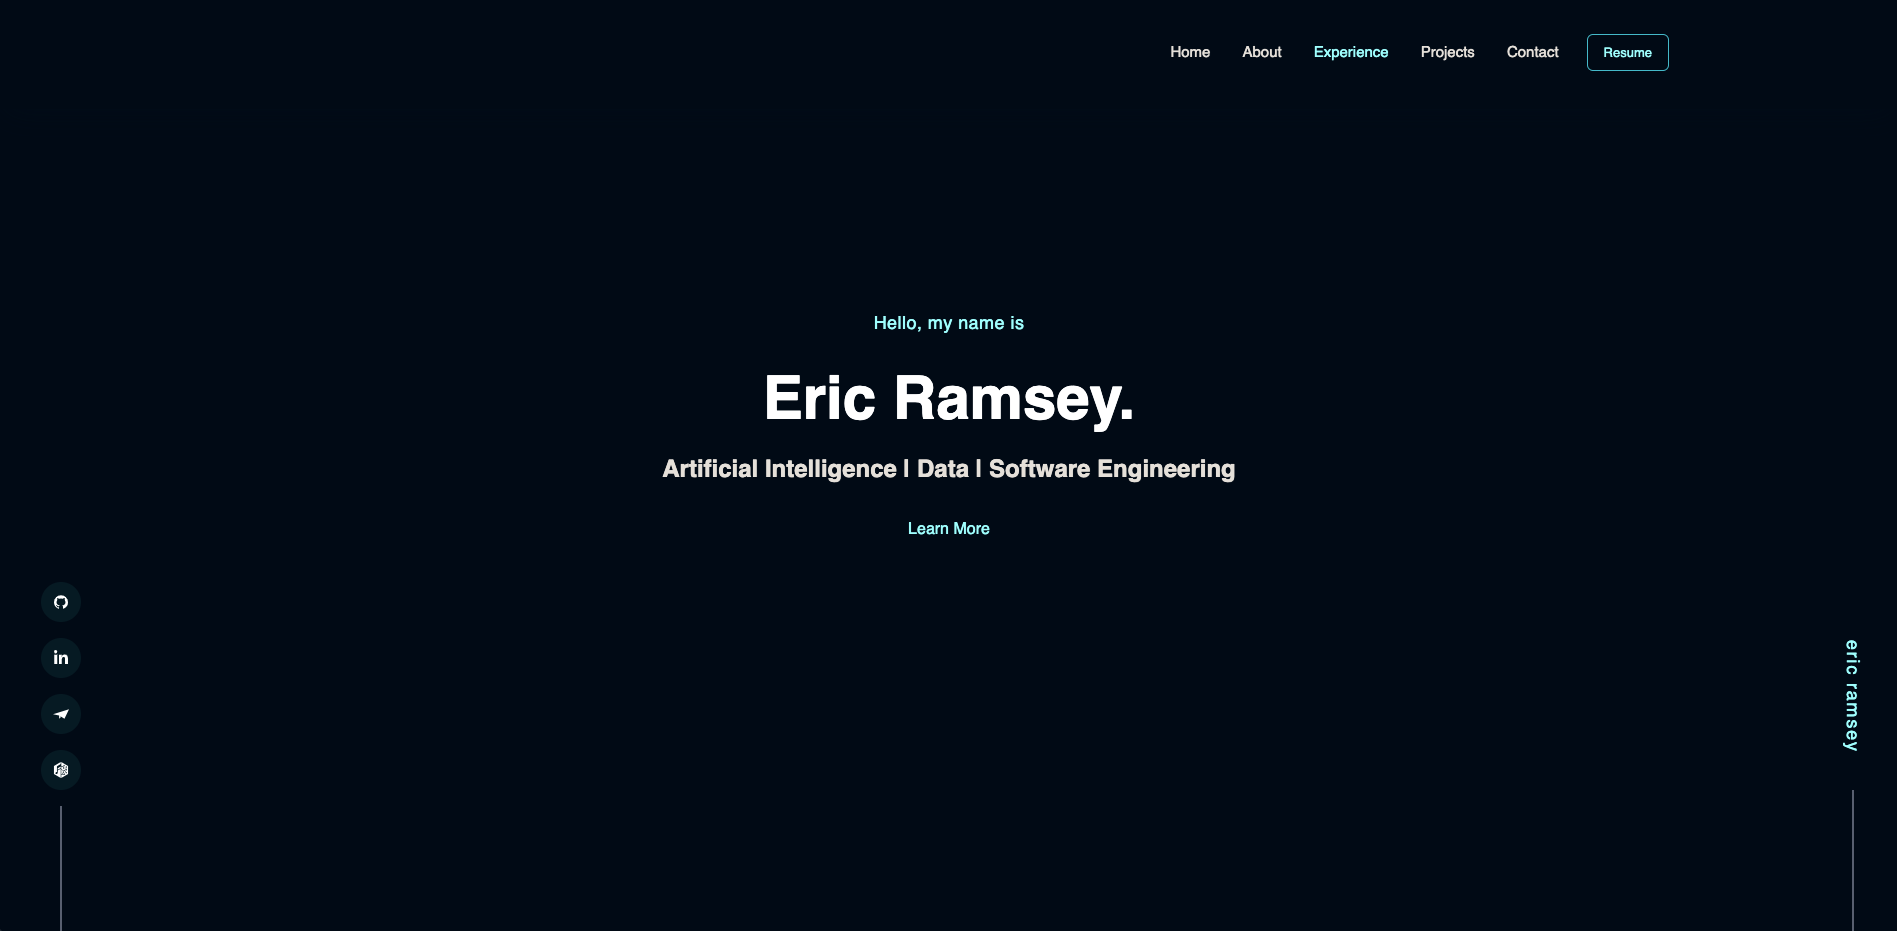
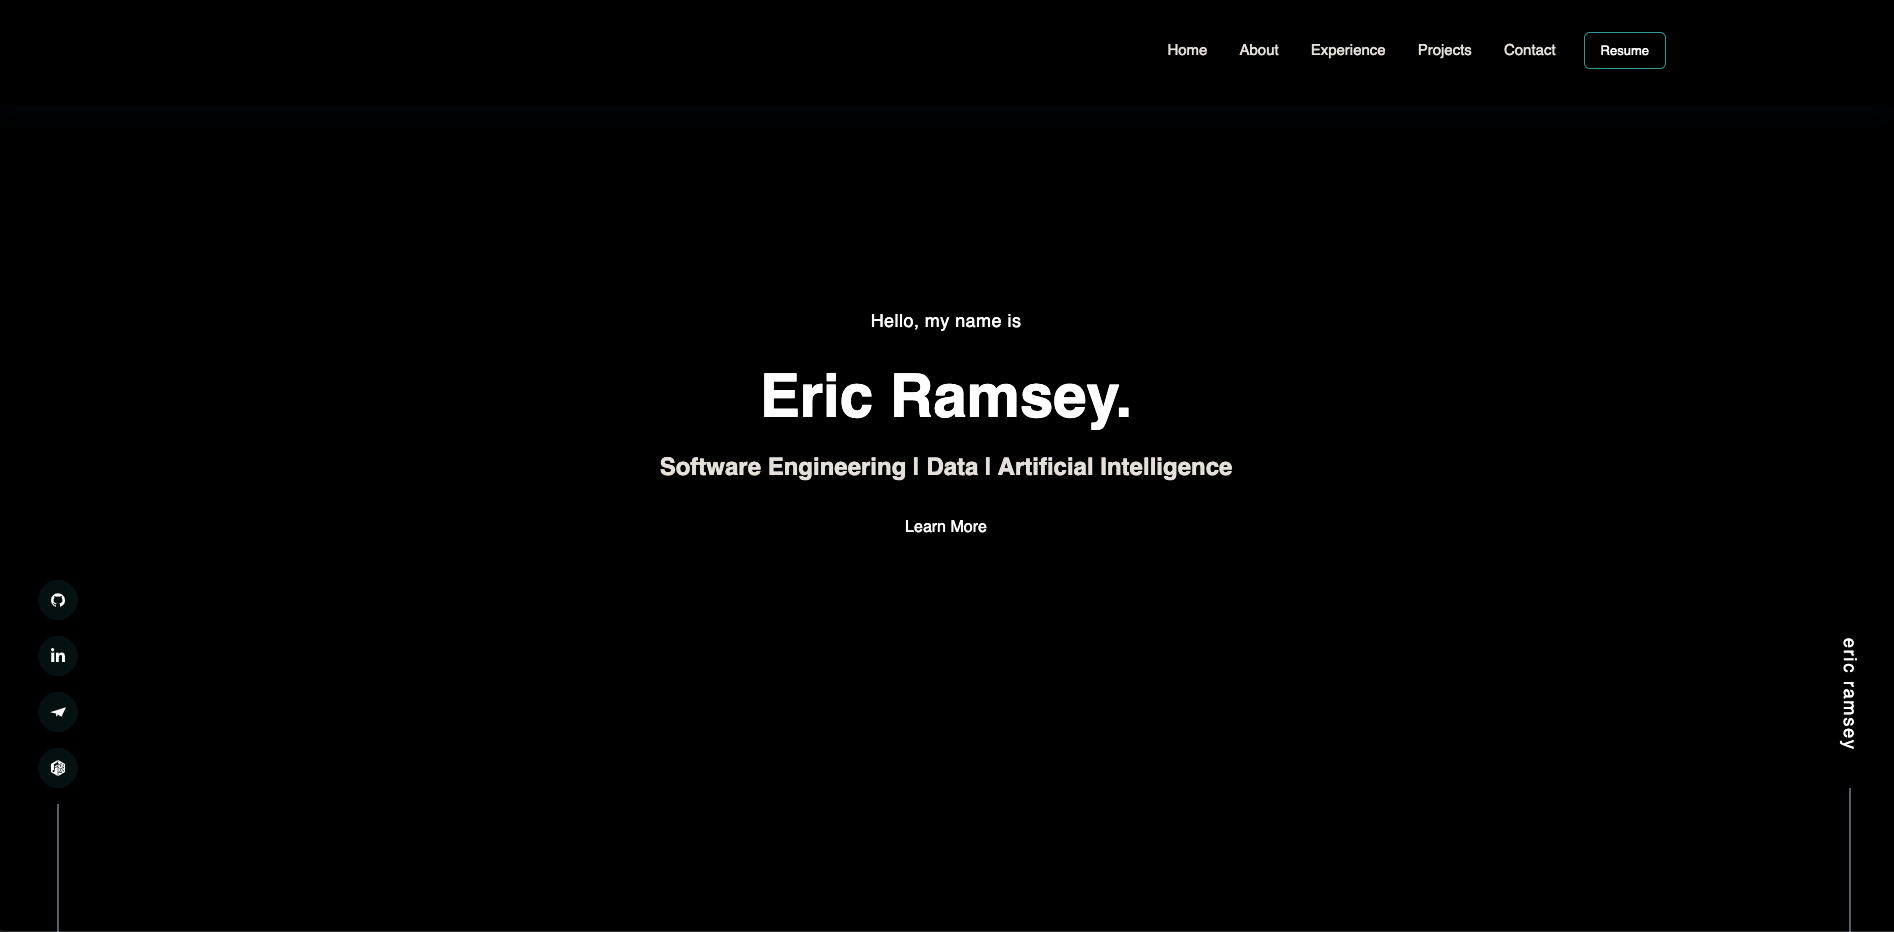
commit textTeal and project img changes

diff --git a/tailwind.config.js b/tailwind.config.js
@@ -33,7 +33,7 @@ module.exports = {
       },
       colors: {
         bodyColor: "#020a16",
-        textTeal: "#9FFFFE",
+        textTeal: "#0CB5D4",
         textLight: "#ccd6f6",
         textDark: "#8892b0",
         hoverColor: "rgba(100,255,218,0.1)",
